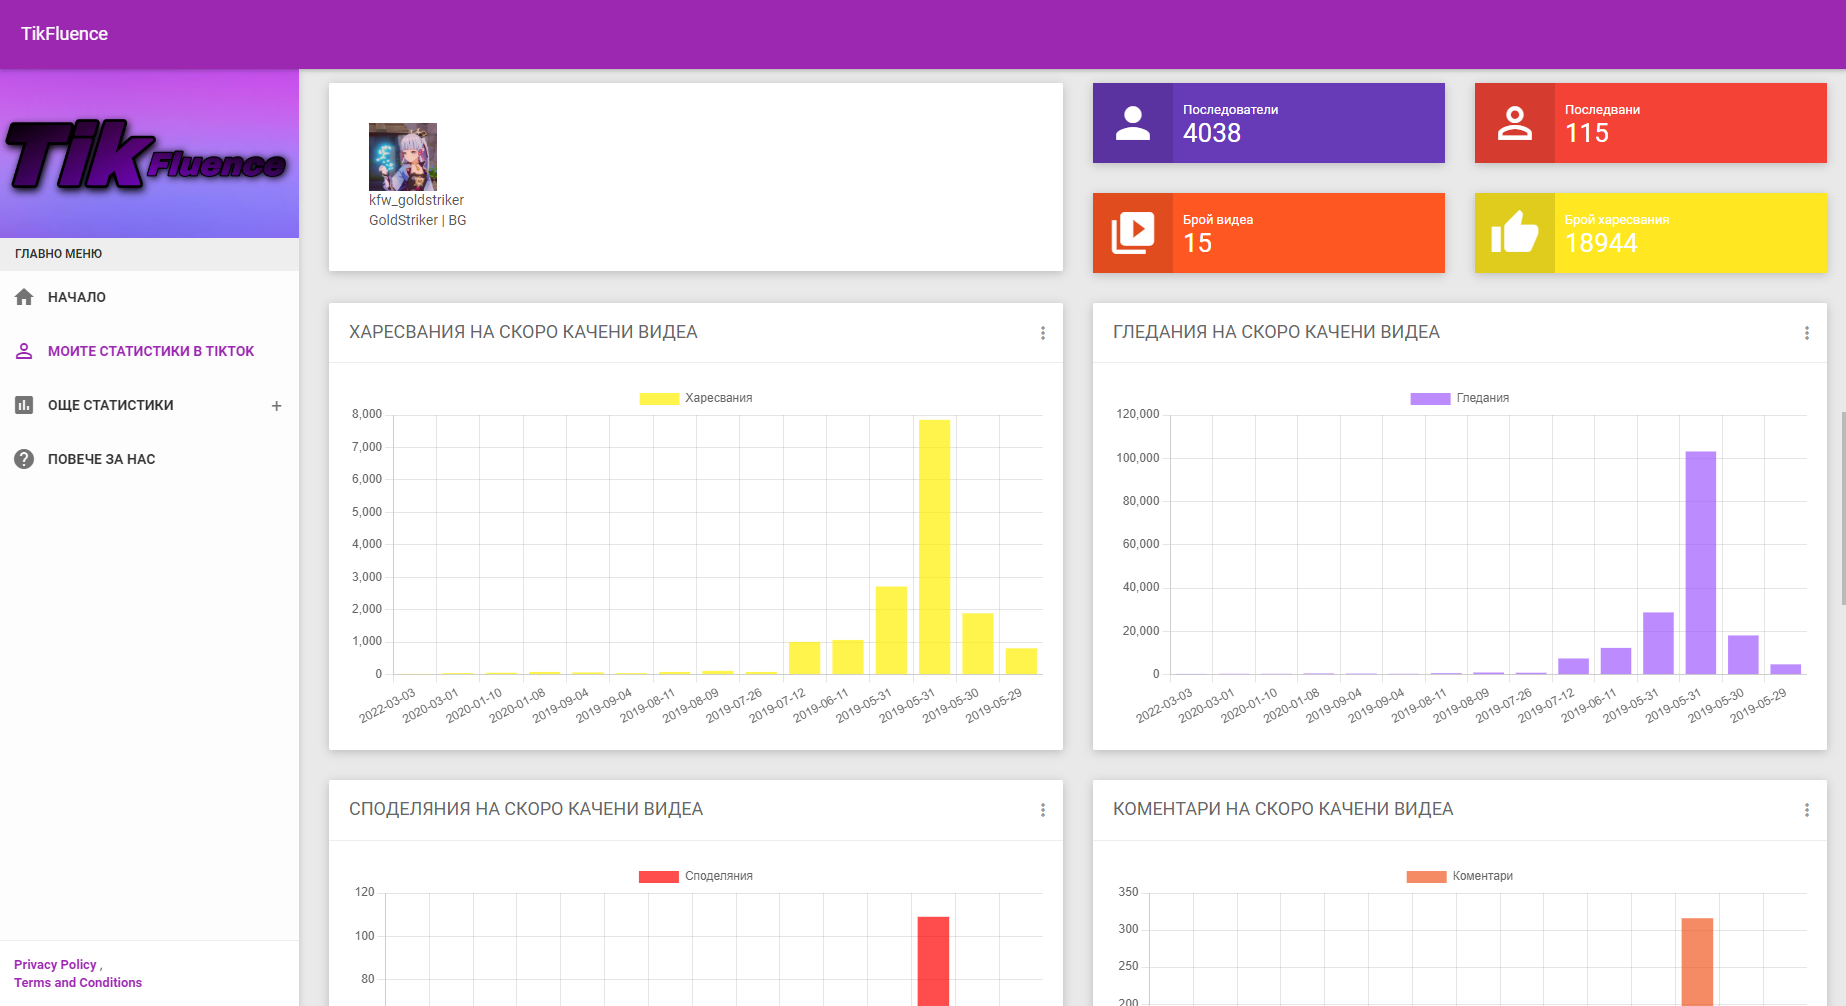
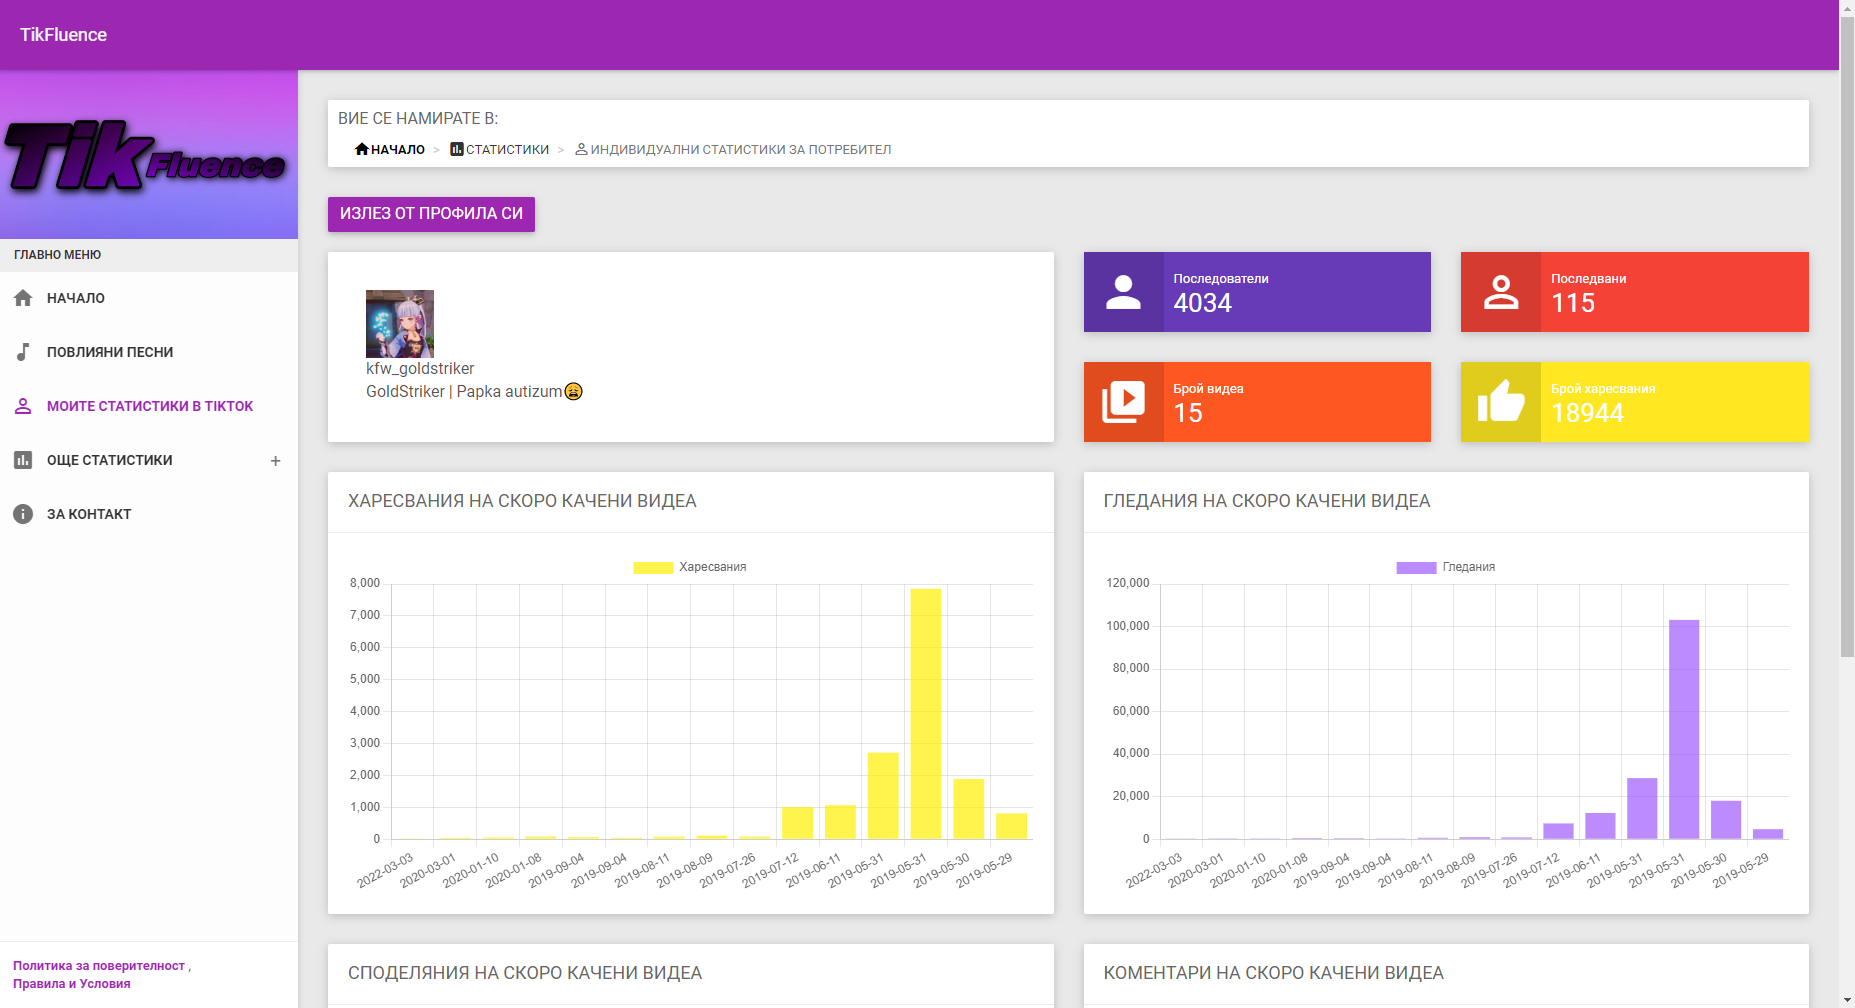
fixed steps and added cursed looking statistic at the home page

diff --git a/index.php b/index.php
@@ -400,41 +400,65 @@
                 </div>
             </div>
 
-            <!-- Latest Social Trends -->
-            <div class="col-xs-12 col-sm-12 col-md-4 col-lg-4">
+            <div class="col-lg-4 col-md-4 col-sm-12 col-xs-12">
                 <div class="card">
-                    <div class="body bg-cyan">
-                        <div class="m-b--35 font-bold">НАЙ-ИЗПОЛЗВАНИТЕ ХАШТАГОВЕ В МОМЕНТА</div>
-                        <ul class="dashboard-stat-list">
-                            <?php foreach($hashtagsForTheLast7Days as $ht):?>
-                                <li>
-                                    #<?php echo $ht ?>
-                                </li>
-                            <?php endforeach;?>
-                        </ul>
+                    <div class="header">
+                        <h2>
+                            НАЙ-ИЗПОЛЗВАНИТЕ ХАШТАГОВЕ
+                        </h2>
+                    </div>
+                    <div class="body">
+                        <div class="row clearfix">
+                            <div class="col-xs-12 ol-sm-12 col-md-12 col-lg-12">
+                                <div class="panel-group" id="accordion_1" role="tablist" aria-multiselectable="true">
+                                    <div class="panel panel-primary">
+                                        <div class="panel-heading" role="tab" id="headingOne_1">
+                                            <h4 class="panel-title">
+                                                <a role="button" data-toggle="collapse" data-parent="#accordion_1" href="#collapseOne_1" aria-expanded="false" aria-controls="collapseOne_1" class="collapsed">
+                                                    ПОНАСТОЯЩЕМ <i class="material-icons">keyboard_arrow_down</i>
+                                                </a>
+                                            </h4>
+                                        </div>
+                                        <div id="collapseOne_1" class="panel-collapse collapse" role="tabpanel" aria-labelledby="headingOne_1" aria-expanded="false" style="height: 0px;">
+                                            <div class="panel-body body bg-cyan">
+                                                <ul class="dashboard-stat-list">
+                                                    <?php foreach($hashtagsForTheLast7Days as $ht):?>
+                                                        <li>
+                                                            #<?php echo $ht ?>
+                                                        </li>
+                                                    <?php endforeach;?>
+                                                </ul>
+                                            </div>
+                                        </div>
+                                    </div>
+
+                                    <div class="panel panel-primary">
+                                        <div class="panel-heading" role="tab" id="headingTwo_1">
+                                            <h4 class="panel-title">
+                                                <a class="collapsed" role="button" data-toggle="collapse" data-parent="#accordion_1" href="#collapseTwo_1" aria-expanded="false" aria-controls="collapseTwo_1">
+                                                    ЗА ПОСЛЕДНИТЕ 120 ДНИ <i class="material-icons">keyboard_arrow_down</i>
+                                                </a>
+                                            </h4>
+                                        </div>
+                                        <div id="collapseTwo_1" class="panel-collapse collapse" role="tabpanel" aria-labelledby="headingTwo_1" aria-expanded="false">
+                                            <div class="panel-body body bg-cyan">
+                                                <ul class="dashboard-stat-list">
+                                                    <?php foreach($hashtagsForTheLast120Days as $ht):?>
+                                                        <li>
+                                                            #<?php echo $ht ?> 
+                                                        </li>
+                                                    <?php endforeach;?>
+                                                </ul>
+                                            </div>
+                                        </div>
+                                    </div>
+
+                                </div>
+                            </div>
+                        </div>
                     </div>
                 </div>
             </div>
-            <!-- #END# Latest Social Trends -->
-            <!-- Latest Social Trends -->
-            <div class="col-xs-12 col-sm-12 col-md-4 col-lg-4">
-                <div class="card">
-                    <div class="body bg-cyan">
-                        <div class="m-b--35 font-bold">НАЙ-ИЗПОЛЗВАНИТЕ ХАШТАГОВЕ ЗА ПОСЛЕДНИТЕ 120 ДНИ</div>
-                        <ul class="dashboard-stat-list">
-                            <?php foreach($hashtagsForTheLast120Days as $ht):?>
-                                <li>
-                                    #<?php echo $ht ?> 
-                                    <!-- <span class="pull-right">
-                                        <i class="material-icons">trending_up</i>
-                                    </span> -->
-                                </li>
-                            <?php endforeach;?>
-                        </ul>
-                    </div>
-                </div>
-            </div>
-            <!-- #END# Latest Social Trends -->
 
             <!-- Footer -->
             <div class="col-xs-12 col-sm-12 col-md-12 col-lg-12">

diff --git a/pages/individualStats.php b/pages/individualStats.php
@@ -325,6 +325,22 @@
                             </div>
                         </div>
                     </div>
+
+                    <div class="row clearfix">
+                        <div class="col-lg-12 col-md-12 col-sm-12 col-xs-12">
+                            <div class="card">
+                                <div class="header">
+                                    <h2>
+                                        <strong>6.</strong> Не забравяйте накрая да излезете от профила си. След натискане на бутона за излизане ще бъдете препратени към страницата на TikTok. Можете да затворите страницата и да се върнете обратно към страницата на TikFluence!
+                                    </h2>
+                                </div>
+                                <div class="body">
+                                    <img src="../images/sixthStep.png" width="100%">
+                                </div>
+                            </div>
+                        </div>
+                    </div>
+
                 <?php endif;?>
 
                 <!-- <div class="col-lg-6 col-md-6 col-sm-6 col-xs-6">
